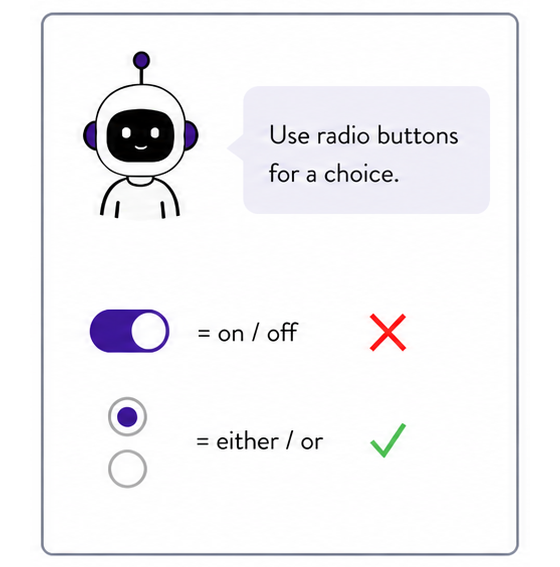
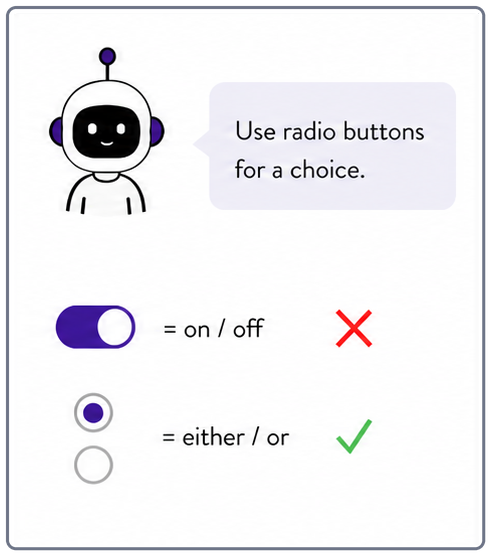
Update comic to revised panels; add sr-only transcript, fix sizing
Wires in the new 492x557 panel artwork (previously 560x567), which
have tight, uniform outer margins instead of the old baked-in dead
space. Corrects the display CSS to match the new aspect ratio via
aspect-ratio: 492/557 -- the old fixed max-height was calibrated to
the previous files and would have squished these.

Wraps the comic in a figure with a visually hidden h2 as its accessible
name (aria-labelledby) and a screen-reader-only figcaption carrying the
full panel-by-panel transcript. All four <img> alt attributes are now
empty so screen readers get the transcript once instead of image
summaries plus a duplicate description. Verified via the accessibility
tree: heading + transcript expose in order, no image nodes announced.

diff --git a/index.html b/index.html
@@ -301,12 +301,18 @@
     margin: 16px 0 32px;
   }
 
+  /* Panel files are natively 492x557; aspect-ratio keeps that proportion
+     exact instead of fighting a fixed max-height meant for the old files. */
   .comic-panels img {
     display: block;
     width: 100%;
     max-width: 288px;
-    max-height: 292px;
     height: auto;
+    aspect-ratio: 492 / 557;
+  }
+
+  .comic-figure {
+    margin: 0;
   }
 
   /* Small side-by-side previews of the two guidance diagrams. Each links
@@ -2680,12 +2686,21 @@
       <p>Now, the agent coached users through the challenges they were up against. It gave them the content they came for, surfaced the most relevant risks or standards alongside it, and let them decide what to do next.</p>
 
       <p class="eq-title">UX Designer in Toggle Trouble</p>
-      <div class="comic-panels">
-        <img src="images/comic-toggle-trouble/ux-designer-in-toggle-trouble-panel-1.png" alt="A designer asks the bot to help write copy for a toggle: 'Send refund by direct deposit. Otherwise, you'll get a paper check in the mail.'">
-        <img src="images/comic-toggle-trouble/ux-designer-in-toggle-trouble-panel-2.png" alt="The bot asks a clarifying question: is the user choosing between two ways to get their refund? The designer confirms yes.">
-        <img src="images/comic-toggle-trouble/ux-designer-in-toggle-trouble-panel-3.png" alt="The bot explains the rule: a toggle means on or off, but this is an either/or choice, so it needs radio buttons instead.">
-        <img src="images/comic-toggle-trouble/ux-designer-in-toggle-trouble-panel-4.png" alt="The bot's recommendation swaps the toggle for radio buttons asking how the user wants their refund: direct deposit or a mailed check. It offers to draft the toggle version too if it's required, and to flag the risk.">
-      </div>
+      <figure class="comic-figure" aria-labelledby="comic-toggle-trouble-title">
+        <h2 id="comic-toggle-trouble-title" class="sr-only">UX Designer in Toggle Trouble</h2>
+        <div class="comic-panels">
+          <img src="images/comic-toggle-trouble/ux-designer-in-toggle-trouble-panel-1.png" alt="">
+          <img src="images/comic-toggle-trouble/ux-designer-in-toggle-trouble-panel-2.png" alt="">
+          <img src="images/comic-toggle-trouble/ux-designer-in-toggle-trouble-panel-3.png" alt="">
+          <img src="images/comic-toggle-trouble/ux-designer-in-toggle-trouble-panel-4.png" alt="">
+        </div>
+        <figcaption class="sr-only">
+          <p>Panel 1. A UX designer says, "Hi coach! Help me write this." The request uses an on toggle and says, "Send refund by direct deposit. Otherwise, you'll get a paper check in the mail."</p>
+          <p>Panel 2. The Coach asks, "Quick question. Are they choosing between two ways to get their refund?" The designer replies, "Yep."</p>
+          <p>Panel 3. The Coach says, "Use radio buttons for a choice." A toggle is labeled "on / off" and marked with a red X. Two stacked radio buttons are labeled "either / or" and marked with a green check.</p>
+          <p>Panel 4. Recommendation: "How would you like to receive your refund?" "Direct deposit" is selected. "Paper check in the mail" is unselected. The Coach adds, "Tell me if this must be a toggle. I'll give you a draft, and help you flag the risk."</p>
+        </figcaption>
+      </figure>
 
       <p>Product designers starting a new project could still ask it to walk them through the simplified content design process we had outlined. We kept that original workflow in place, just toned down the pushback.</p>
 
